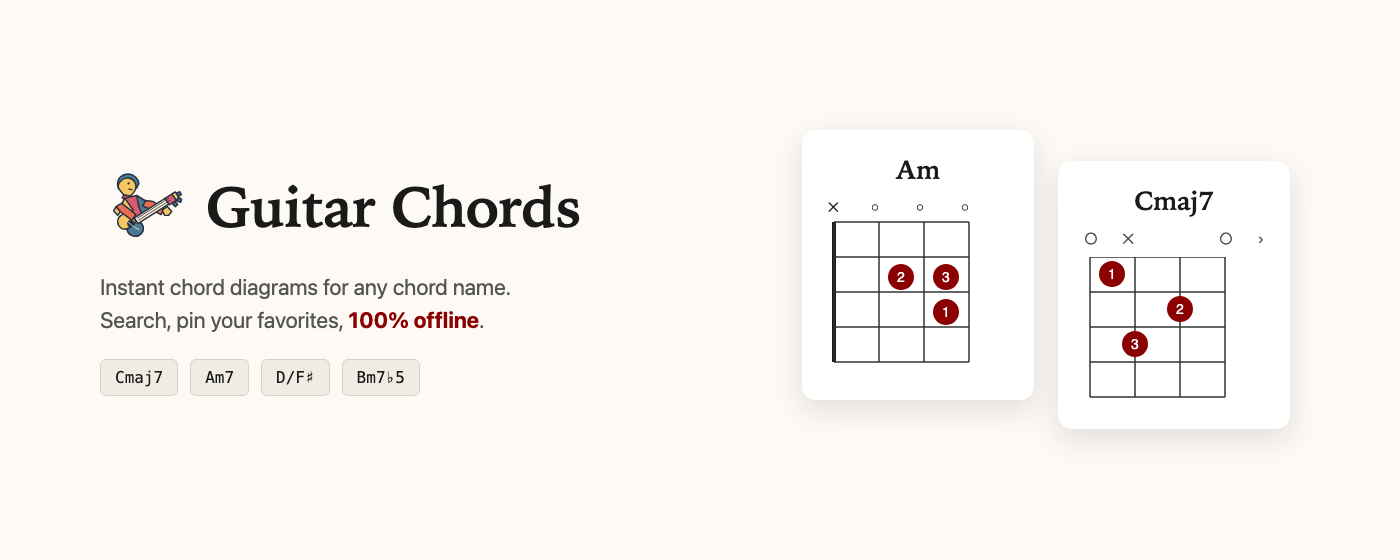
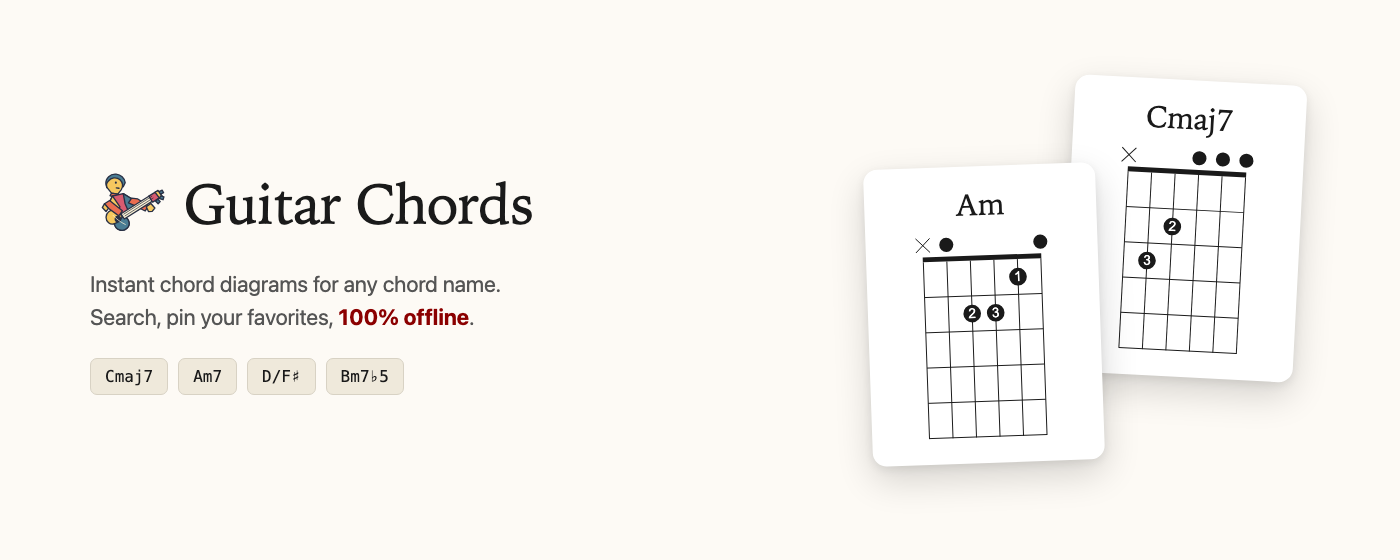
Regenerate promo marquee with real chord diagrams
promo-marquee-1400x560.png hand-faked its chord diagrams with only 4
strings shown; add scripts/promo-marquee.js (+ HTML layout) to render
the Am/Cmaj7 diagrams with the actual svguitar-based ChordDiagram
renderer used across the site, then regenerate the PNG from it.

diff --git a/scripts/promo-marquee.html b/scripts/promo-marquee.html
@@ -1,0 +1,168 @@
+<!DOCTYPE html>
+<html lang="en">
+<head>
+<meta charset="UTF-8">
+<title>Guitar Chords — promo marquee</title>
+<style>
+  :root {
+    --ink: #1a1a1a;
+    --ink-soft: #555;
+    --paper: #fdfaf5;
+    --rule: #d8d2c4;
+    --accent: #8b0000;
+    --serif: "Iowan Old Style", "Palatino Linotype", Palatino, Georgia, serif;
+    --sans: -apple-system, BlinkMacSystemFont, "Helvetica Neue", Arial, sans-serif;
+  }
+  * { box-sizing: border-box; }
+  html, body {
+    width: 1400px;
+    height: 560px;
+    margin: 0;
+    background: var(--paper);
+    font-family: var(--serif);
+    color: var(--ink);
+  }
+  body {
+    display: flex;
+    align-items: center;
+    padding: 0 90px;
+  }
+  .left {
+    flex: 0 0 auto;
+    width: 620px;
+  }
+  .brand {
+    display: flex;
+    align-items: center;
+    gap: 18px;
+    margin-bottom: 26px;
+  }
+  .brand img {
+    width: 76px;
+    height: 76px;
+  }
+  .brand h1 {
+    margin: 0;
+    font-size: 56px;
+    font-weight: 400;
+    letter-spacing: -0.01em;
+  }
+  .tagline {
+    font-family: var(--sans);
+    font-size: 22px;
+    line-height: 1.5;
+    color: var(--ink-soft);
+    margin: 0 0 24px;
+    max-width: 480px;
+  }
+  .tagline strong {
+    color: var(--accent);
+    font-weight: 700;
+  }
+  .chips {
+    display: flex;
+    gap: 10px;
+    flex-wrap: wrap;
+  }
+  .chip {
+    font-family: ui-monospace, "SF Mono", Menlo, Consolas, monospace;
+    font-size: 16px;
+    background: #efe9db;
+    border: 1px solid var(--rule);
+    border-radius: 7px;
+    padding: 8px 14px;
+    color: var(--ink);
+  }
+  .right {
+    flex: 1 1 auto;
+    position: relative;
+    height: 420px;
+  }
+  .card {
+    position: absolute;
+    width: 232px;
+    background: #fff;
+    border-radius: 14px;
+    box-shadow: 0 14px 36px rgba(0,0,0,0.16), 0 3px 10px rgba(0,0,0,0.08);
+    padding: 18px 18px 22px;
+    text-align: center;
+  }
+  .card h2 {
+    font-family: var(--serif);
+    font-weight: 400;
+    font-size: 30px;
+    margin: 0 0 6px;
+  }
+  .card .diagram {
+    width: 100%;
+    height: 210px;
+  }
+  .card .diagram svg {
+    width: 100%;
+    height: 100%;
+  }
+  .card.back {
+    top: 10px;
+    right: 10px;
+    transform: rotate(3deg);
+  }
+  .card.front {
+    top: 96px;
+    right: 210px;
+    transform: rotate(-2deg);
+  }
+</style>
+</head>
+<body>
+  <div class="left">
+    <div class="brand">
+      <img src="../src/site/guitar-player-cubist-left-head.svg" alt="">
+      <h1>Guitar Chords</h1>
+    </div>
+    <p class="tagline">
+      Instant chord diagrams for any chord name.<br>
+      Search, pin your favorites, <strong>100% offline</strong>.
+    </p>
+    <div class="chips">
+      <span class="chip">Cmaj7</span>
+      <span class="chip">Am7</span>
+      <span class="chip">D/F♯</span>
+      <span class="chip">Bm7♭5</span>
+    </div>
+  </div>
+  <div class="right">
+    <div class="card back">
+      <h2 id="name-2"></h2>
+      <div class="diagram" id="diagram-2"></div>
+    </div>
+    <div class="card front">
+      <h2 id="name-1"></h2>
+      <div class="diagram" id="diagram-1"></div>
+    </div>
+  </div>
+
+  <script src="../vendor/svguitar.umd.js"></script>
+  <script src="../vendor/fuzzysort.js"></script>
+  <script src="../dist/extension/chords-db.js"></script>
+  <script src="../src/shared/chord-diagram.js"></script>
+  <script src="../src/shared/chord-search.js"></script>
+  <script>
+    function findChord(query) {
+      const exact = window.CHORDS.find((c) => c.name === query);
+      if (exact) return exact;
+      const matches = window.matchChords(query, window.CHORDS, 'american');
+      if (!matches.length) throw new Error('No chord found for ' + query);
+      return matches[0];
+    }
+
+    function paint(id, query) {
+      const chord = findChord(query);
+      document.getElementById('name-' + id).textContent = chord.name;
+      window.ChordDiagram.render(document.getElementById('diagram-' + id), chord, 'finder');
+    }
+
+    paint(1, 'Am');
+    paint(2, 'Cmaj7');
+  </script>
+</body>
+</html>

diff --git a/scripts/promo-marquee.js b/scripts/promo-marquee.js
@@ -1,0 +1,34 @@
+#!/usr/bin/env node
+'use strict';
+/* promo-marquee.js — Generates store/screenshots/promo-marquee-1400x560.png
+   using the real svguitar-based ChordDiagram renderer (6-string diagrams),
+   instead of hand-faked artwork.
+   Usage: node scripts/promo-marquee.js  (requires dist/extension/ to be
+   built first via `npm run build:ext`, for dist/extension/chords-db.js) */
+
+const path = require('path');
+const fs = require('fs');
+const { chromium } = require('playwright');
+
+const ROOT = path.join(__dirname, '..');
+const PAGE = 'file://' + path.join(ROOT, 'scripts', 'promo-marquee.html');
+const OUT = path.join(ROOT, 'store', 'screenshots', 'promo-marquee-1400x560.png');
+
+async function run() {
+  fs.mkdirSync(path.dirname(OUT), { recursive: true });
+
+  const browser = await chromium.launch();
+  const ctx = await browser.newContext({ viewport: { width: 1400, height: 560 } });
+  const page = await ctx.newPage();
+  await page.goto(PAGE);
+  await page.waitForLoadState('domcontentloaded');
+  await page.waitForFunction(() => document.querySelectorAll('.diagram svg').length === 2);
+  await page.waitForTimeout(200); // let svguitar finish painting
+
+  await page.screenshot({ path: OUT });
+  await browser.close();
+
+  console.log('saved →', path.relative(ROOT, OUT));
+}
+
+run().catch((err) => { console.error(err); process.exit(1); });
